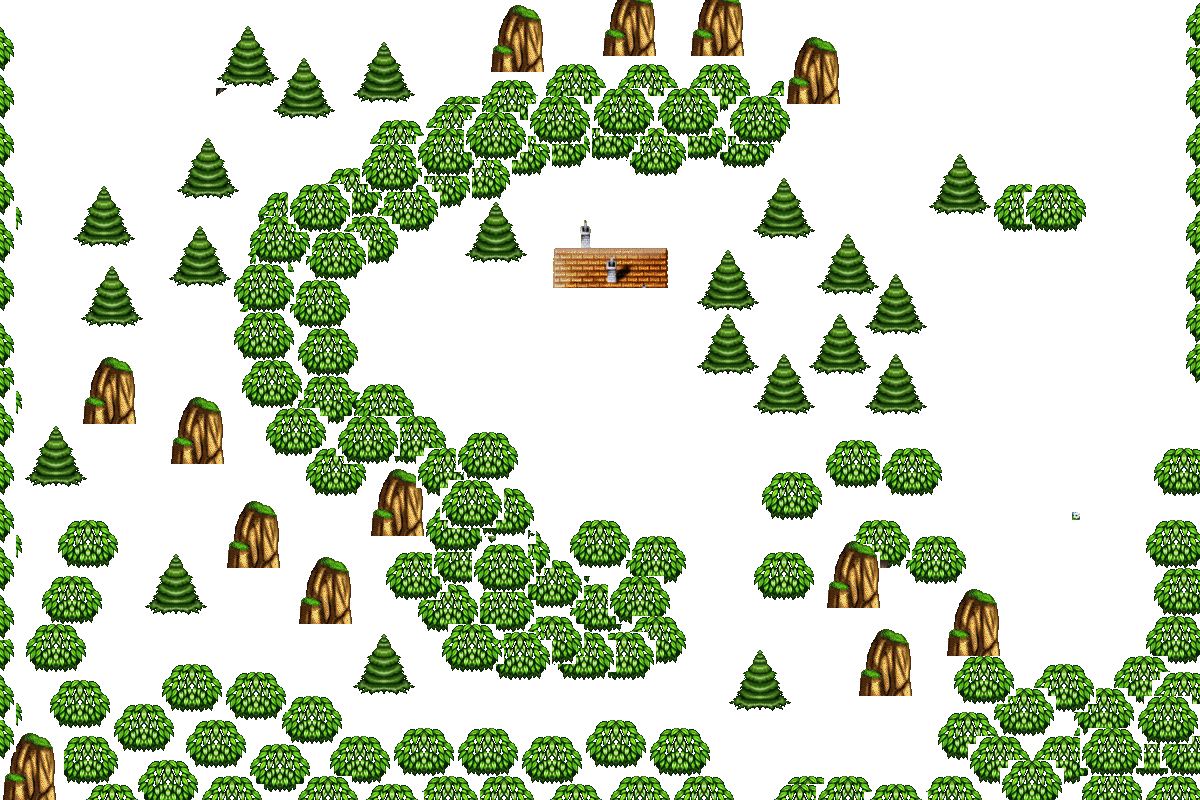
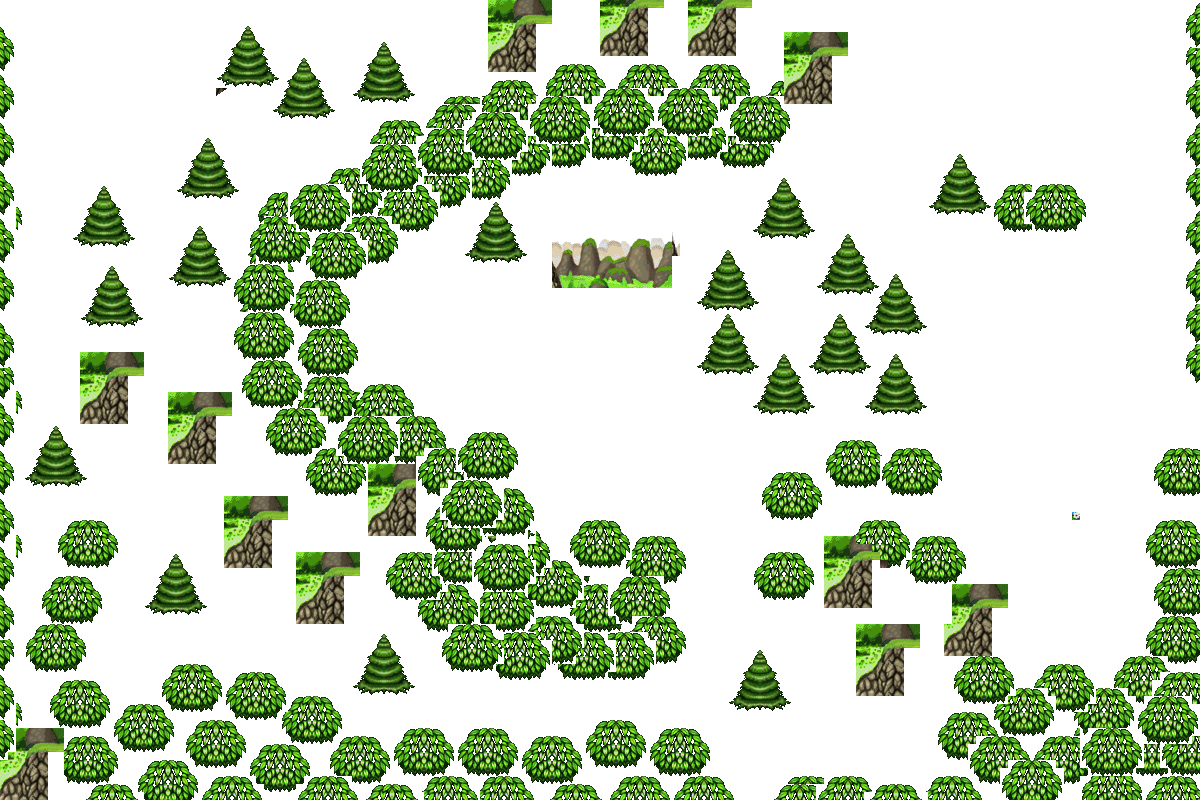
Dragon Ball realm: the first Legacy of Goku's maps with all their tile sets
Big maps swap tile sets as you go; each screen now uses the set that draws
it.

Claude-Session: https://claude.ai/code/session_01DgX1So3eGyRinximfHDkeg

diff --git a/tools/build-dbz-legacy-of-goku.py b/tools/build-dbz-legacy-of-goku.py
@@ -10,7 +10,8 @@
 #     +0  width, height in screens (240x160);  +4  width, height in tiles
 #     +8, +c, +10  bitmaps, a bit for each 8x8 tile, rows of the whole map, least significant bit first: +8 is where
 #                  people can walk (the other two are the air and the ground under things)
-#     +1c  a list of pointers to {pointer, flags}: the map's 8bpp tiles, loaded to end at VRAM tile 896
+#     +1c  a list of pointers to {pointer, flags} (some empty), then those: the map's 8bpp tile sets, each loaded to
+#          end at VRAM tile 896; the game swaps between them as you go
 #     +20, +24, +28  the three backgrounds, front to back: a pointer for each screen, to 30x20 u16 entries (0: empty)
 #     +2c  the palette (256 colours);  +30  {pointer, flags} of more tiles, loaded just before the map's own
 #   People: 0x5c1328 on, 0x2c bytes each: a palette (16 colours), then the animations: 19 actions, a pointer for each
@@ -101,27 +102,39 @@ for o in range(0, len(rom) - 0x34, 4):
 entries = {}
 for n, e in enumerate(maps):
     ws, hs, wt, ht = struct.unpack_from('<HHHH', rom, e)
-    T = np.zeros((1024, 8, 8), np.uint8)
-    own = b''.join(unpack(R(p), R(p + 4)) for p in [R(R(e + 0x1c))])
+    # The map's tile sets: the list at +1c holds pointers to {pointer, flags} (some empty), then those. Each loads to
+    # end at VRAM tile 896, the extra tiles at +30 just before it. Which set a screen uses is the game's business
+    # (it swaps them as you go); here each screen gets the one that draws it most smoothly.
     more = unpack(R(R(e + 0x30)), R(R(e + 0x30) + 4))
-    first = 896 - len(own) // 64
-    for base, data in ((first, own), (first - len(more) // 64, more)):
-        for i in range(len(data) // 64):
-            if 0 <= base + i < 1024: T[base + i] = np.frombuffer(data[i * 64:i * 64 + 64], np.uint8).reshape(8, 8)
+    # (the first one there points just past the list, so that's how long it is)
+    lst = R(e + 0x1c) & 0x1ffffff; k = 0
+    while not R(lst + 4 * k): k += 1
+    ptrs = [R(lst + 4 * i) for i in range(((R(lst + 4 * k) & 0x1ffffff) - lst) // 4)]
+    sets = []
+    for p in ptrs:
+        if not p: continue
+        own = unpack(R(p), R(p + 4)); T = np.zeros((1024, 8, 8), np.uint8)
+        first = 896 - len(own) // 64
+        for base, data in ((first, own), (first - len(more) // 64, more)):
+            for i in range(len(data) // 64):
+                if 0 <= base + i < 1024: T[base + i] = np.frombuffer(data[i * 64:i * 64 + 64], np.uint8).reshape(8, 8)
+        # (every tile in its four flips, indexed as the map's entries are: flips << 10 | tile)
+        sets.append(np.concatenate([T, T[:, :, ::-1], T[:, ::-1, :], T[:, ::-1, ::-1]]))
     P = palette(R(e + 0x2c))
-    layers = []
-    for k in range(3):
-        a = np.zeros((ht * 8, wt * 8), np.uint8); screens = R(e + 0x20 + 4 * k)
-        for sy in range(hs):
-            for sx in range(ws):
-                p = R(screens + 4 * (sy * ws + sx))
-                if not p: continue
-                for i, v in enumerate(struct.unpack_from('<600H', rom, p & 0x1ffffff)):
-                    t = T[v & 0x3ff]
-                    if v & 0x400: t = t[:, ::-1]
-                    if v & 0x800: t = t[::-1]
-                    y, x = sy * 160 + (i // 30) * 8, sx * 240 + (i % 30) * 8; a[y:y + 8, x:x + 8] = t
-        layers.append(a)
+    luma = P.astype(np.int32).sum(1)
+    layers = [np.zeros((ht * 8, wt * 8), np.uint8) for k in range(3)]
+    for sy in range(hs):
+        for sx in range(ws):
+            maps_ = [R(R(e + 0x20 + 4 * k) + 4 * (sy * ws + sx)) for k in range(3)]
+            best = None
+            cells = [np.frombuffer(rom[p & 0x1ffffff:(p & 0x1ffffff) + 1200], '<u2') & 0xfff if p else None for p in maps_]
+            for T in sets:
+                screen = [T[v].reshape(20, 30, 8, 8).transpose(0, 2, 1, 3).reshape(160, 240) if v is not None
+                          else np.zeros((160, 240), np.uint8) for v in cells]
+                c = np.where(screen[0] != 0, screen[0], np.where(screen[1] != 0, screen[1], screen[2]))
+                c = luma[c]; cost = np.abs(np.diff(c, axis=0)).sum() + np.abs(np.diff(c, axis=1)).sum()
+                if best is None or cost < best[0]: best = (cost, screen)
+            for k in range(3): layers[k][sy * 160:sy * 160 + 160, sx * 240:sx * 240 + 240] = best[1][k]
     ground = np.where(layers[1] != 0, layers[1], layers[2])
     save(Image.fromarray(P[ground], 'RGB'), 'maps', 'LG1_%02d.png' % n)
     if layers[0].any():
